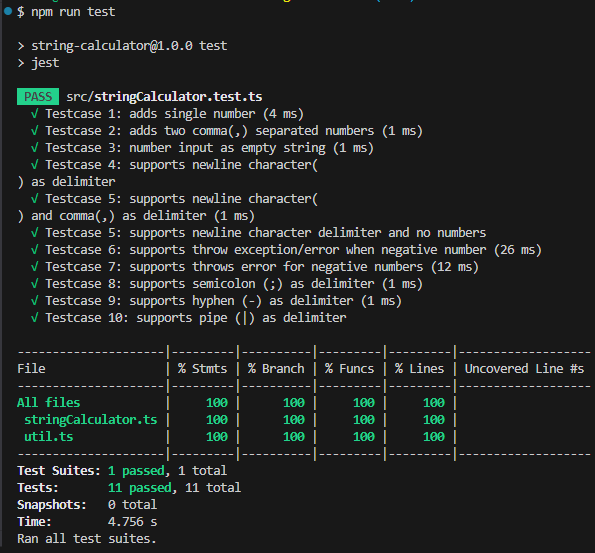
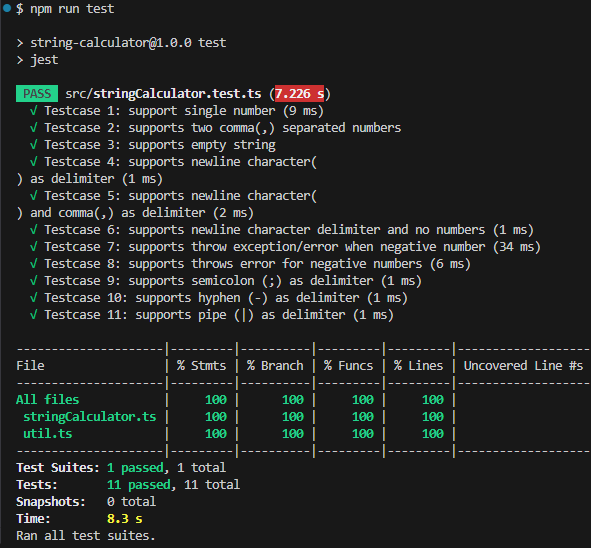
Updated test cases number and image asset for documentation

diff --git a/src/stringCalculator.test.ts b/src/stringCalculator.test.ts
@@ -21,28 +21,28 @@ test("Testcase 5: supports newline character(\n) and comma(,) as delimiter", () 
   expect(add("2,3\n3,4")).toBe(12);
 });
 
-test("Testcase 5: supports newline character delimiter and no numbers", () => {
+test("Testcase 6: supports newline character delimiter and no numbers", () => {
   expect(add("\n")).toBe(0);
 });
 
-test("Testcase 6: supports throw exception/error when negative number", () => {
+test("Testcase 7: supports throw exception/error when negative number", () => {
   expect(() => add("-1,3")).toThrow(NegativeNumberError);
 });
 
-test("Testcase 7: supports throws error for negative numbers", () => {
+test("Testcase 8: supports throws error for negative numbers", () => {
   expect(() => add("1,-2,3,-4")).toThrow("negative numbers not allowed -2,-4");
 });
 
 
-test("Testcase 8: supports semicolon (;) as delimiter", () => {
+test("Testcase 9: supports semicolon (;) as delimiter", () => {
   expect(add("//;\n1;2;3")).toBe(6);
 });
 
-test("Testcase 9: supports hyphen (-) as delimiter", () => {
+test("Testcase 10: supports hyphen (-) as delimiter", () => {
   expect(add("//-\n1-2-3")).toBe(6);
 });
 
-test("Testcase 10: supports pipe (|) as delimiter", () => {
+test("Testcase 11: supports pipe (|) as delimiter", () => {
   expect(add("//|\n1|2|3|4")).toBe(10);
 });
 

diff --git a/jest.config.js b/jest.config.js
@@ -3,5 +3,6 @@ module.exports = {
     testEnvironment: "node",
     collectCoverage: true,
     coverageReporters: ["json", "text", "lcov", "clover"],
+    roots: ["<rootDir>/src"]
   };
   
